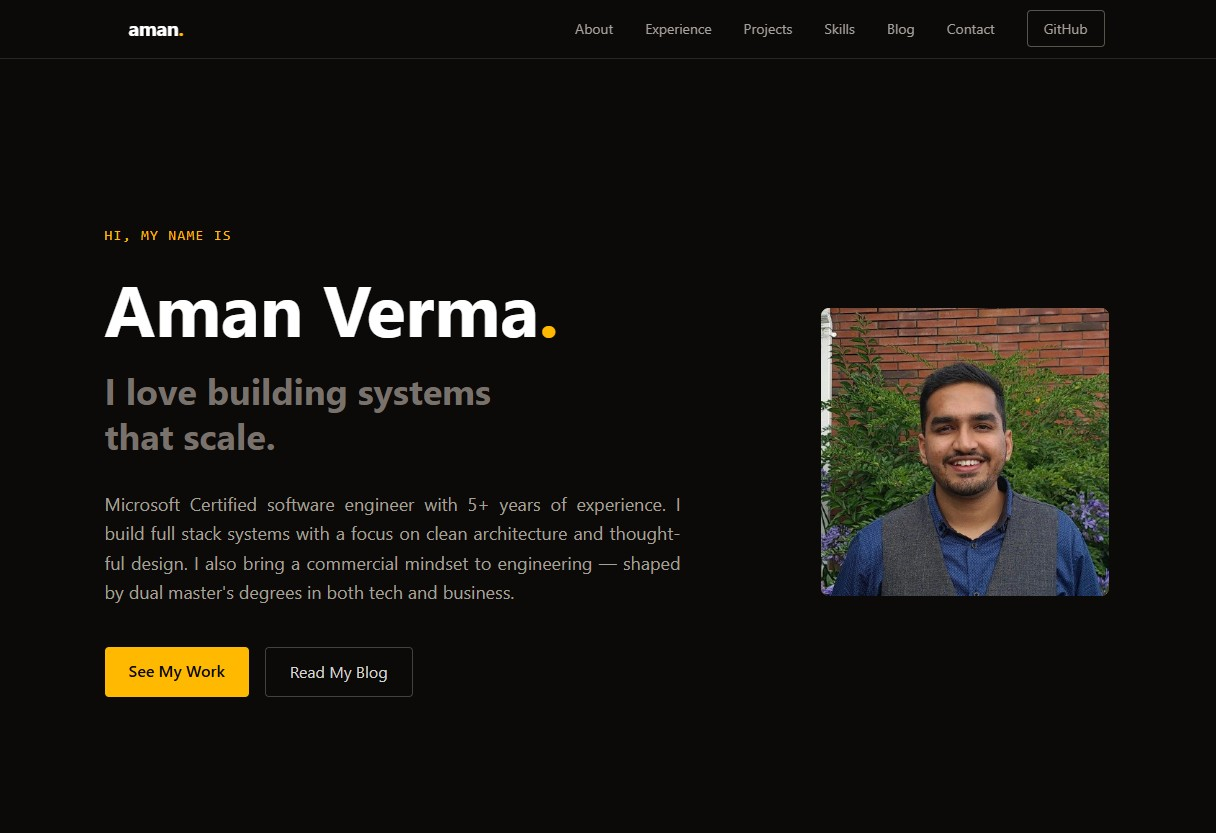
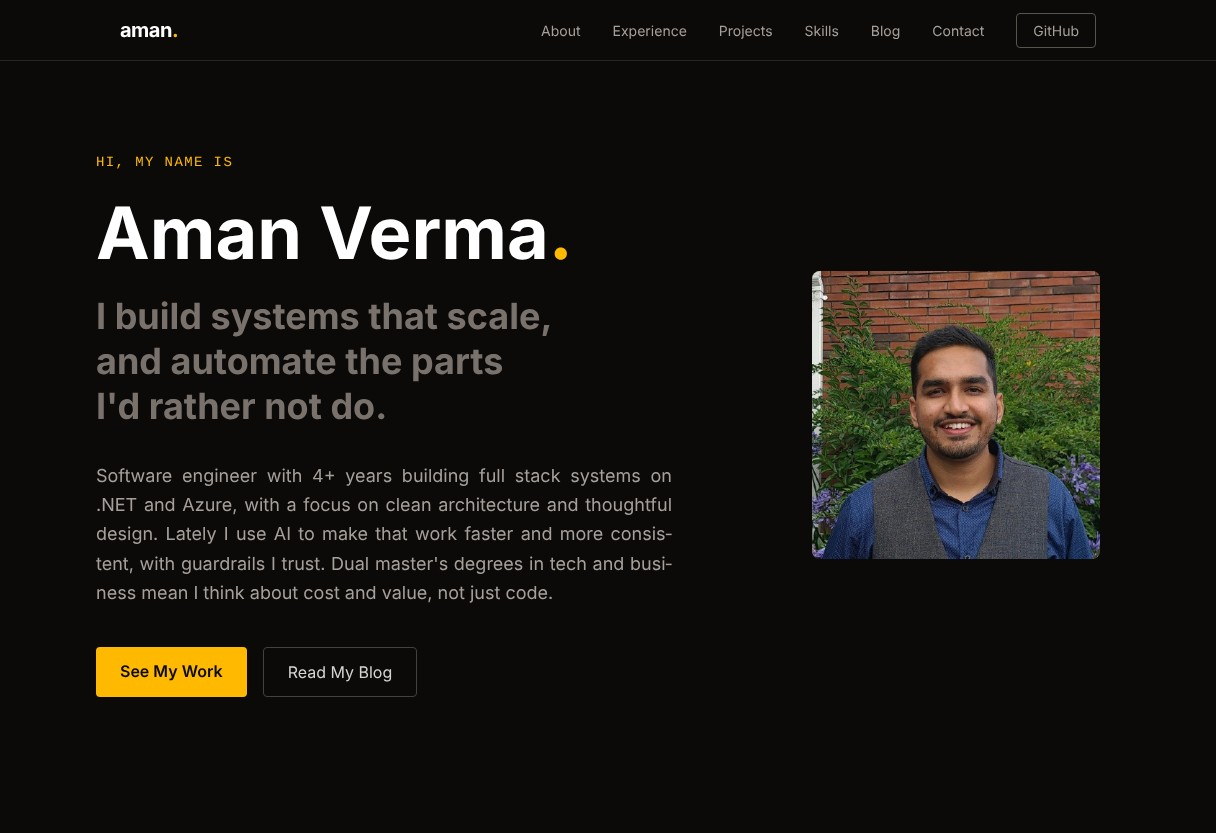
feat: update profile information and enhance blog post metadata for improved clarity

diff --git a/src/data/profile.js b/src/data/profile.js
@@ -33,19 +33,19 @@ const profile = {
   resumeFile: "resume.pdf",
   pageTitle: "Aman Verma | Software Engineer",
   metaDescription:
-    "Software Engineer with 5+ years of .NET and Azure expertise, based in Auckland, NZ. Building clean, scalable systems, with a growing focus on AI.",
-  tagline: "I love building systems\nthat scale.",
+    "Software Engineer with 4+ years of .NET and Azure expertise, based in Auckland, NZ. Building clean, scalable systems, with a growing focus on AI.",
+  tagline: "I build systems that scale,\nand automate the parts\nI'd rather not do.",
   blogBlurb:
     "Thoughts on software engineering, system design, AI, and the occasional thing I had to learn the hard way.",
   contactBlurb:
-    "Always open to interesting problems, good collaborations, or just a conversation about software. Feel free to reach out.",
+    "Always up for an interesting problem, a good collaboration, or a conversation about software. Say hi.",
   bio: {
     short:
-      "Microsoft Certified software engineer with 5+ years of experience. I build full stack systems with a focus on clean architecture and thoughtful design, and increasingly use AI to make that work faster and more consistent. I also bring a commercial mindset to engineering, shaped by dual master's degrees in tech and business.",
+      "Software engineer with 4+ years building full stack systems on .NET and Azure, with a focus on clean architecture and thoughtful design. Lately I use AI to make that work faster and more consistent, with guardrails I trust. Dual master's degrees in tech and business mean I think about cost and value, not just code.",
     long: [
       "Most of my work has been designing and shipping REST APIs and cloud services on .NET and Azure, focused on systems where cutting corners early costs multiples later. Clean architecture, honest contracts, thorough documentation, and code the next developer can actually pick up and run with.",
       "I hold dual master's degrees in Computer Applications and Business Informatics, meaning I can sit in a commercial conversation and translate it directly into engineering decisions. What it costs, what it enables, whether it's solving the right problem.",
-      "Lately I've been building AI into my own engineering workflow, turning repetitive work into consistent, tested automation. I write about what I learn along the way on my blog.",
+      "Lately I've been building AI into my own workflow: a set of skills that take on the repetitive parts of the job while I stay in the loop, orchestrating the work and signing it off. It's taught me as much about engineering discipline as about AI, and I write about it on my blog.",
     ],
   },
   location: "Auckland, NZ",
@@ -198,9 +198,9 @@ const profile = {
     {
       title: "Copilot Skills Toolkit",
       oneliner:
-        "A personal set of AI skills that handle the repetitive parts of everyday engineering work.",
+        "A personal set of AI skills that take the repetitive work out of my day, with me in the loop for every change.",
       description:
-        "Ten GitHub Copilot skills covering board updates, build health, tests, docs, security scans and PR reviews, all following the same standards so the output is consistent every time. Every change is previewed and approved before it's applied, and the safety checks are covered by 100+ tests.",
+        "Ten GitHub Copilot skills built one at a time on shared standards, so the output is consistent every time. AI does the work; I orchestrate and approve. Every write is previewed and tied to an approval code, the guards are covered by 100+ tests, and one skill keeps the rest in check.",
       tags: ["GitHub Copilot", "MCP", "Azure DevOps", "PowerShell", "Pester"],
       github: null,
       live: null,

diff --git a/index.html b/index.html
@@ -15,7 +15,7 @@
   <!-- blog posts get their own og: tags at build time from scripts/og-pages.mjs -->
   <meta property="og:title" content="Aman Verma | Software Engineer" />
   <meta property="og:description"
-    content="Software Engineer with 5+ years of .NET and Azure expertise, based in Auckland, NZ. Building clean, scalable systems, with a growing focus on AI." />
+    content="Software Engineer with 4+ years of .NET and Azure expertise, based in Auckland, NZ. Building clean, scalable systems, with a growing focus on AI." />
   <meta property="og:url" content="%VITE_APP_URL%" />
   <meta property="og:type" content="website" />
   <meta property="og:image" content="%VITE_APP_URL%/preview.jpg" />

diff --git a/src/pages/BlogPostPage.jsx b/src/pages/BlogPostPage.jsx
@@ -78,7 +78,7 @@ export default function BlogPostPage() {
 
         <header className="mt-8 mb-12 pb-10 border-b border-stone-800">
           <p className="text-amber-400 text-sm font-mono mb-4 tracking-wider">
-            {formatPostDate(post.date)}
+            {profile.name} · {formatPostDate(post.date)}
           </p>
           <h1 className="text-3xl sm:text-4xl md:text-5xl font-bold text-white leading-tight mb-5">
             {post.title}

diff --git a/src/content/posts/governed-ai-agent-ecosystem.md b/src/content/posts/governed-ai-agent-ecosystem.md
@@ -4,7 +4,9 @@ It started with my DevOps board. Classic engineer move: two weeks later, alongsi
 
 ![Expanding brain meme. Updating the board by hand. Asking Copilot to write the updates. Building a skill that writes them. Building 10 skills and 100+ tests to avoid a 10-minute chore.](/images/blog/governed-ai-agent-ecosystem/meme-expanding-brain.jpg)
 
-In my defence, I'm a slightly paranoid developer. I wasn't going to let an agent near real work until it had earned my trust, and I wanted that trust to come from guardrails I could test, not from hoping the model follows instructions. That's also why this isn't a post about letting agents run free. Plenty of companies aren't ready for that, often for good reasons: risk, audit, regulation, or a culture that wants a person accountable for every change. In those places, the realistic model isn't "automate it all". It's developers in the loop: AI does the work, and the developer orchestrates it and signs off.
+In my defence, I'm a slightly paranoid developer. I wasn't going to let an agent near real work until it had earned my trust, and I wanted that trust to come from guardrails I could test, not from hoping the model follows instructions.
+
+That's also why this isn't a post about letting agents run free. Plenty of companies aren't ready for that, often for good reasons: risk, audit, regulation, or a culture that wants a person accountable for every change. In those places, the realistic model isn't "automate it all". It's **developers in the loop**: AI does the work, and the developer orchestrates it and signs off.
 
 > **The short version**
 >
@@ -49,15 +51,15 @@ I also document what works and what doesn't, so the lessons don't live only in m
 
 The next skill gets picked by counting, not by ideas. I look at what I actually keep asking the agent for, and the repeats win. Several brilliant-sounding ideas never made the cut.
 
-It was all genuinely useful, and that was the part that worried me. I'd given a confident, fast model write access to things other people read.
-
 ## The problem with polite rules
+
+It was all genuinely useful, and that was the part that worried me. I'd given a confident, fast model write access to things other people read.
 
 My first guardrails were sentences in the skill files. "Always show me a preview." "Never touch protected files." They worked most of the time, which is a lovely quality in a coworker and a terrible one in a guardrail.
 
-The case I worried about most was approval drift. I approve a preview, then say "yes, but change this one line", and what lands is no longer what I approved. A rule written in the skill file can't reliably stop that, because a quick "yes, but…" from me is enough to talk the agent past it.
+The case I worried about most was **approval drift**. I approve a preview, then say "yes, but change this one line", and what lands is no longer what I approved. A rule written in the skill file can't reliably stop that, because a quick "yes, but…" from me is enough to talk the agent past it.
 
-So I settled on one principle: analysis is free, change is earned. The agent can read, search, build and test as much as it likes. Anything that changes something goes through a script that enforces the rules, and the script doesn't care how persuasive the model is.
+So I settled on one principle: **analysis is free, change is earned**. The agent can read, search, build and test as much as it likes. Anything that changes something goes through a script that enforces the rules, and the script doesn't care how persuasive the model is.
 
 ## Following one request through the loop
 
@@ -66,12 +68,14 @@ Here's what happens now when I ask: "Create a user story for this requirement, w
 ![The agent proposes, the script decides: you ask, the agent reads and plans, a preview is shown, you approve the exact version, a guarded script applies it only if the approval code matches, then it verifies and logs. Any edit to the preview produces a new preview.](/images/blog/governed-ai-agent-ecosystem/agent-loop.svg)
 
 1. **It reads first, without asking.** The board skill loads my templates for stories and tasks, how I tag them and my preferred writing style, then reads the requirement.
-2. **It shows a preview, and nothing is applied.** The story and every task appear exactly as they would on the board, in one preview. The script attaches an approval code: a fingerprint of that exact content (and, when updating existing items, of each item's current version). If anything looks like a secret, it stops before the preview is even shown.
+2. **It shows a preview, and nothing is applied.** The story and every task appear exactly as they would on the board, in one preview. The script attaches an **approval code**: a fingerprint of that exact content (and, when updating existing items, of each item's current version). If anything looks like a secret, it stops before the preview is even shown.
 3. **I ask for a tweak.** "Split the API task into two." That isn't approval. It produces a new preview and a new code.
 4. **I approve the final version.** The script applies only if the code still matches. If a word changed, or someone edited an existing item in the meantime, it refuses and writes nothing. If one item in the batch is blocked, the whole batch is.
 5. **It verifies and logs.** It confirms what landed and records metadata only: what changed and when, never the content.
 
-The agent can't talk its way around a hash. That's the whole trick. And there's no delete script at all, because you can't misuse a capability that doesn't exist.
+The agent can't talk its way around a hash. That's the whole trick.
+
+There's also no delete script at all. You can't misuse a capability that doesn't exist.
 
 ## Who checks the checkers?
 
@@ -94,13 +98,15 @@ The board flow is one path through a bigger stack. Rules flow down, and the stri
 | 2 | Only when my current message names it | Protected files, deleting files, adding packages, big batch changes |
 | 3 | Never | Git commits, posting outside the approved flow, printing secrets, editing a guard to get past it |
 
-Shared standards for code quality, documentation, testing, security and logging sit under every skill, and a repo's own standard always wins over mine.
-
 ### What standardising bought me
+
+Shared standards for code quality, documentation, testing, security and logging sit under every skill, and a repo's own standard always wins over mine.
 
 Every skill follows the same contract: load the guardrails first, and for anything that writes, preview before applying, apply only the final version I approve, log metadata only, and have tests for its guards. That one decision is where most of the value came from.
 
-Stories, bugs, reviews and doc updates come out in the same structure every time, and a request is one sentence rather than a briefing, because the context and conventions live in files. Every change arrives the same way, as a numbered list or a preview, so checking it is quick. Code work is scoped to my branch, and anything out of scope gets counted, not fixed.
+Stories, bugs, reviews and doc updates come out in the same structure every time, and a request is one sentence rather than a briefing, because the context and conventions live in files.
+
+Every change arrives the same way, as a numbered list or a preview, so checking it is quick. Code work is scoped to my branch, and anything out of scope gets counted, not fixed.
 
 It also made the setup cheap to extend and easy to rebuild. A new skill inherits the guardrails, standards and test patterns instead of reinventing them, and with a rebuild guide, the whole thing can be rebuilt from three files: the philosophy, my working style and my personal rules.
 
@@ -116,8 +122,8 @@ Two honest caveats. This is a personal setup, not a replacement for security rev
 
 ## Closing
 
+If there's one thing to take away: a rule in a prompt is a request. A rule in a script is a fact.
+
 This isn't the most advanced agent setup out there, and it doesn't need to be. The ambitious stuff can come later; the trust has to come first.
 
 ![It ain't much, but it's honest work.](/images/blog/governed-ai-agent-ecosystem/meme-honest-work.jpg)
-
-A rule in a prompt is a request. A rule in a script is a fact.
